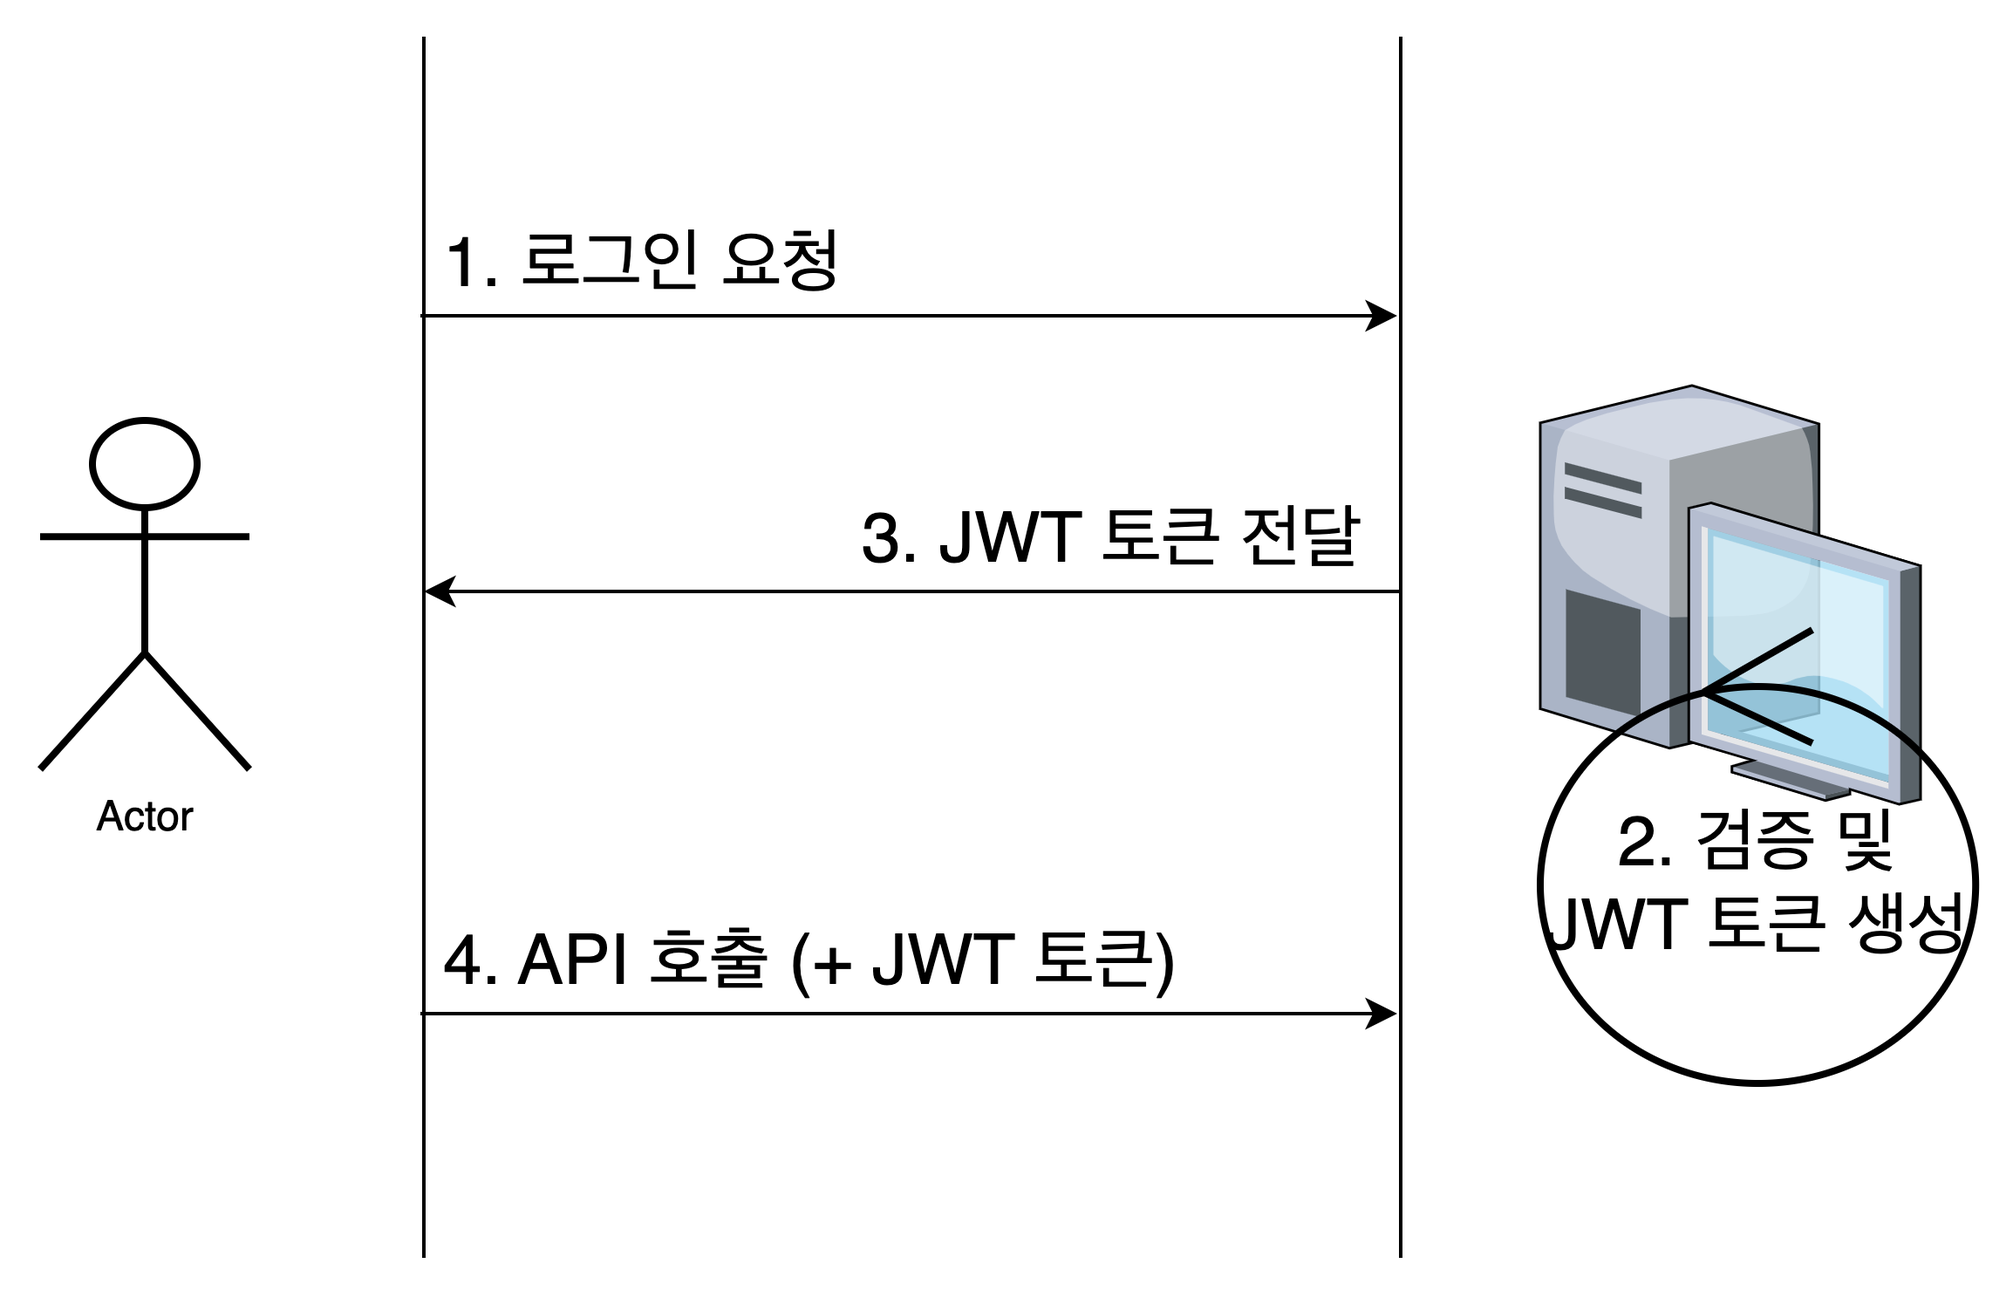
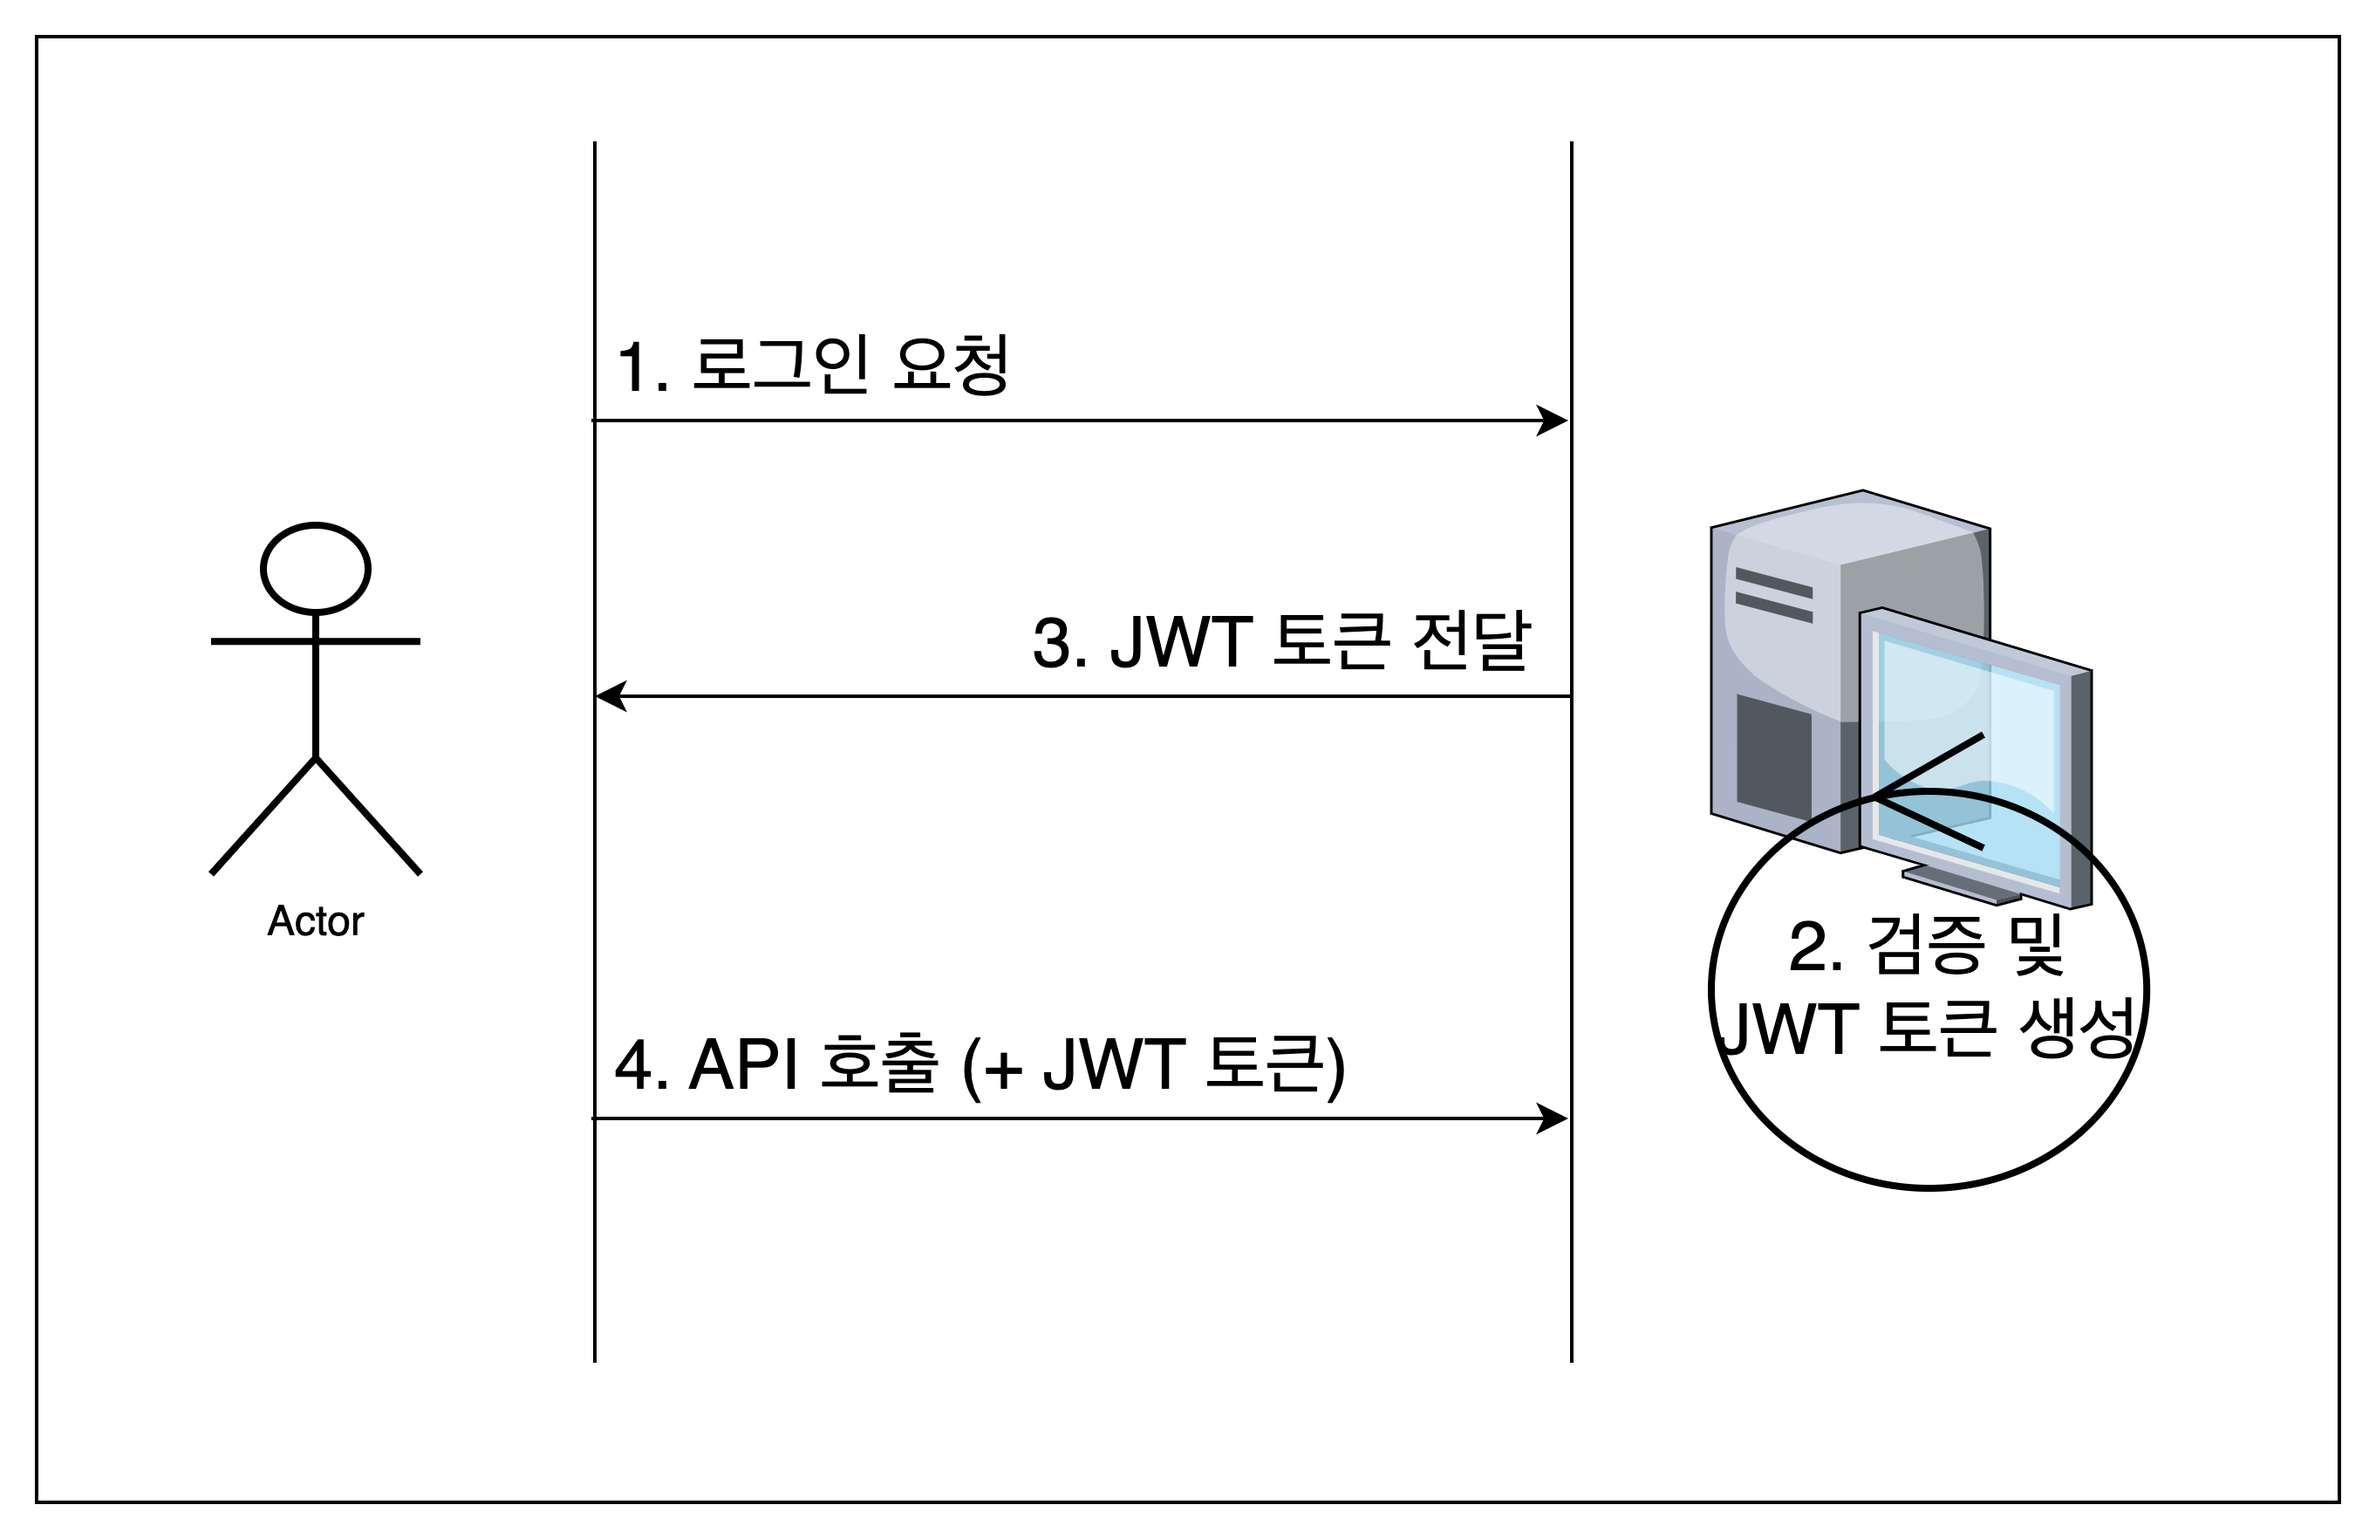
fix: app0.png 이미지 배경색 수정

diff --git a/README.md b/README.md
@@ -52,14 +52,14 @@
 
 <br/>
 
-**Header**
+### Header
 ![img.png](img/jwt0.png)
 - `alg`: 서명 알고리즘
 - `typ`: 토큰 타입
 - 헤더 정보는 **Base64Url** 방식으로 인코딩되어 JWT의 첫 번째 구성값이 된다.
 - Base64란 8비트 이진 데이터를 ASCII 문자로 바꾸는 인코딩 방식이다.
 
-**Payload**
+### Payload
 ![img.png](img/jwt2.png)
 - 클레임(전달하고싶은 정보)를 포함하는 데이터
 - 세 가지 타입의 클레임이 있다.
@@ -77,7 +77,7 @@
   - private claims
     - 당사자간에 정보를 공유하기 위한 클레임
 
-**서명**
+### Signature
 ![img.png](img/jwt3.png)
 - 서명을 통해 무결성을 검증
 
